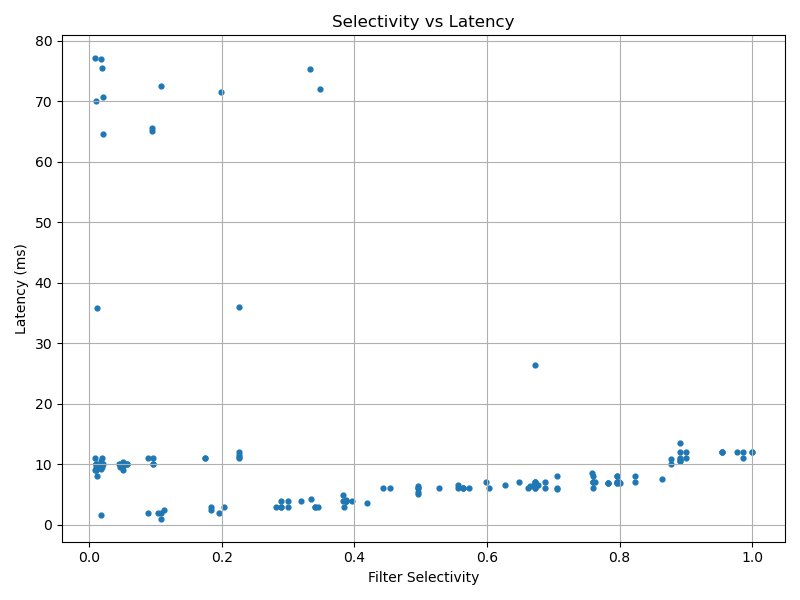
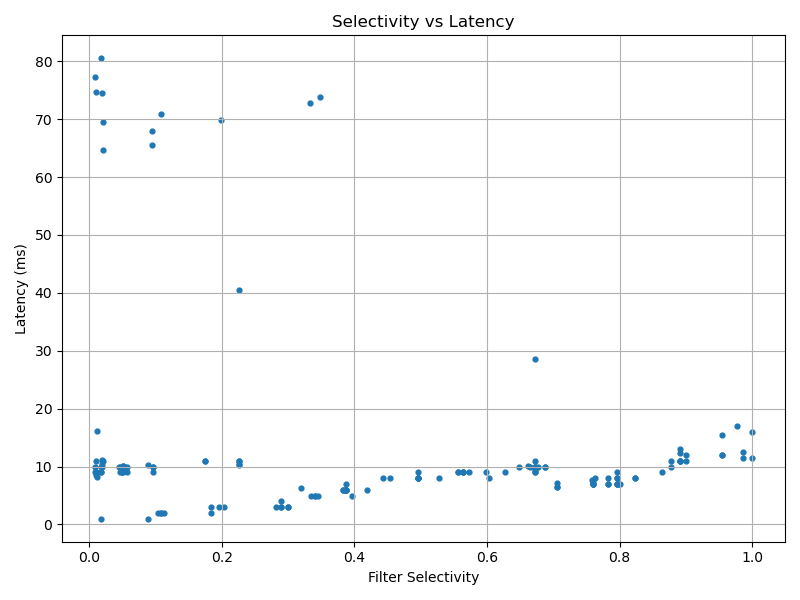
Further adjusted scaling

diff --git a/src/backends/hybrid_backend.py b/src/backends/hybrid_backend.py
@@ -120,7 +120,7 @@ class HybridBackend(SearchBackend):
         if selectivity < 0.01:
             scale = 2.0
         elif selectivity >= 0.30 and selectivity <= 0.70:
-            scale = 3.0
+            scale = 20
 
         if scale != 1.0:
             nprobe_start = max(1, int(base_start * scale))
